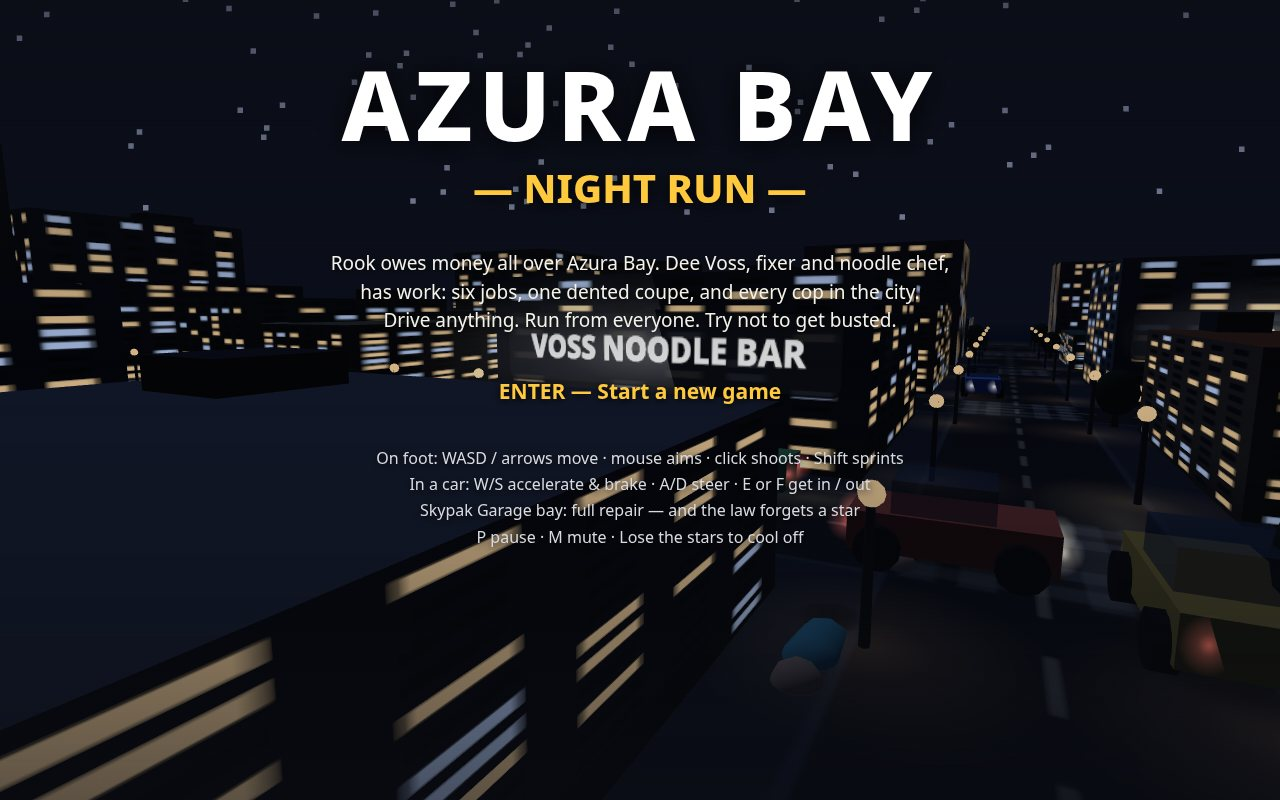
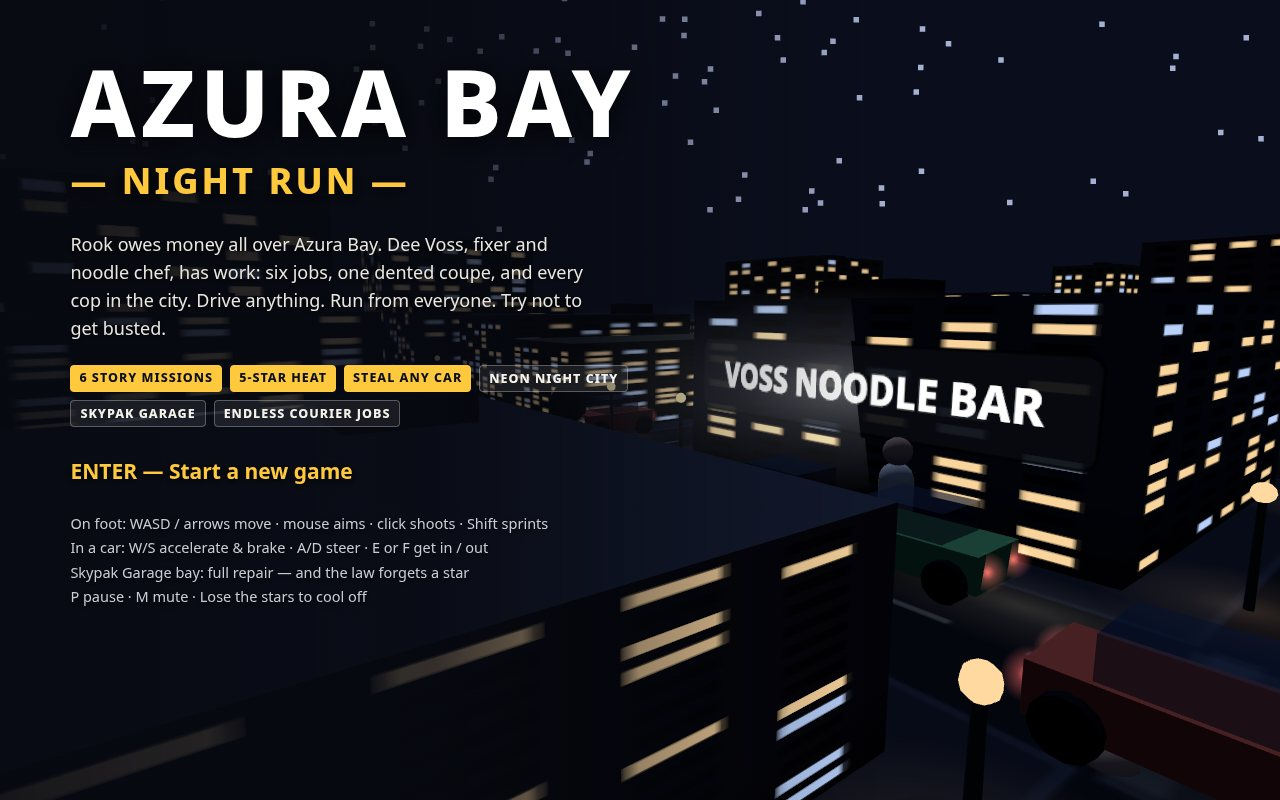
Round 7.1: staged money, cover/drive/chase composition, polish fixes
- shots.js: each scene's cash is the story rewards earned so far plus pocket
  money ($40 / $190 / $1,540), derived from CHAIN so it cannot drift
- cover: left text column on a gradient scrim with a feature strip; camera
  moved to the cross street so the noodle-bar sign reads on the right
- drive: no pedestrian blocking the foreground; chase: bumper cop pulled
  back and camera raised so Rook's coupe is the subject
- Skypak Garage spelled consistently (banner and building sign)
- main.ts header describes this game; root package.json sets type=module

diff --git a/game/index.html b/game/index.html
@@ -58,13 +58,16 @@
   #arrow-dist { position: absolute; left: -20px; top: 12px; width: 40px; text-align: center; font-size: 13px; font-weight: 700; color: #ffc93e; text-shadow: 0 1px 3px rgba(0,0,0,0.9); }
 
   .screen { position: absolute; inset: 0; display: none; flex-direction: column; align-items: center; }
-  #title-screen { background: linear-gradient(180deg, rgba(12,14,20,0.62) 0%, rgba(12,14,20,0.18) 45%, rgba(12,14,20,0.66) 100%); text-align: center; padding-top: 7vh; }
-  #game-title { font-size: 96px; font-weight: 800; letter-spacing: 6px; color: #ffffff; text-shadow: 0 4px 30px rgba(0,0,0,0.9); line-height: 1; }
-  #game-subtitle { font-size: 40px; font-weight: 800; color: #ffc93e; margin-top: 8px; text-shadow: 0 3px 18px rgba(0,0,0,0.9); }
-  #title-story { font-size: 19px; line-height: 1.5; margin-top: 34px; text-shadow: 0 2px 8px rgba(0,0,0,0.95); }
-  #title-start { font-size: 21px; font-weight: 700; color: #ffc93e; margin-top: 42px; text-shadow: 0 2px 8px rgba(0,0,0,0.95); }
+  #title-screen { background: linear-gradient(90deg, rgba(8,10,18,0.94) 0%, rgba(8,10,18,0.82) 34%, rgba(8,10,18,0.25) 56%, rgba(8,10,18,0) 70%); align-items: flex-start; text-align: left; padding: 7vh 0 0 5.5vw; box-sizing: border-box; }
+  #game-title { font-size: 92px; font-weight: 800; letter-spacing: 5px; color: #ffffff; text-shadow: 0 4px 30px rgba(0,0,0,0.9); line-height: 1; }
+  #game-subtitle { font-size: 36px; font-weight: 800; color: #ffc93e; margin-top: 8px; letter-spacing: 3px; text-shadow: 0 3px 18px rgba(0,0,0,0.9); }
+  #title-story { font-size: 18px; line-height: 1.55; margin-top: 26px; max-width: 520px; color: #e8e6de; text-shadow: 0 2px 8px rgba(0,0,0,0.95); }
+  #title-features { display: flex; flex-wrap: wrap; gap: 8px; margin-top: 22px; max-width: 560px; }
+  #title-features span { font-size: 12.5px; font-weight: 800; letter-spacing: 1px; color: #0d1018; background: #ffc93e; border-radius: 4px; padding: 4px 9px; }
+  #title-features span.alt { background: rgba(255,255,255,0.08); color: #f4f2ea; border: 1px solid rgba(255,255,255,0.28); }
+  #title-start { font-size: 21px; font-weight: 700; color: #ffc93e; margin-top: 30px; text-shadow: 0 2px 8px rgba(0,0,0,0.95); }
   #save-line { font-size: 21px; font-weight: 700; margin-top: 10px; display: none; text-shadow: 0 2px 8px rgba(0,0,0,0.95); }
-  #title-controls { font-size: 16px; color: #d7dae0; line-height: 1.65; margin-top: 40px; text-shadow: 0 2px 8px rgba(0,0,0,0.95); }
+  #title-controls { font-size: 14.5px; color: #c9ccd4; line-height: 1.7; margin-top: 26px; text-shadow: 0 2px 8px rgba(0,0,0,0.95); }
   #mute-line { font-size: 16px; color: #ff5d5d; margin-top: 12px; display: none; }
 
   #panel-screen { justify-content: center; background: rgba(10, 12, 16, 0.45); }
@@ -133,9 +136,13 @@
     <div id="game-title">AZURA BAY</div>
     <div id="game-subtitle">— NIGHT RUN —</div>
     <div id="title-story">
-      Rook owes money all over Azura Bay. Dee Voss, fixer and noodle chef,<br>
-      has work: six jobs, one dented coupe, and every cop in the city.<br>
+      Rook owes money all over Azura Bay. Dee Voss, fixer and noodle chef,
+      has work: six jobs, one dented coupe, and every cop in the city.
       Drive anything. Run from everyone. Try not to get busted.
+    </div>
+    <div id="title-features">
+      <span>6 STORY MISSIONS</span><span>5-STAR HEAT</span><span>STEAL ANY CAR</span>
+      <span class="alt">NEON NIGHT CITY</span><span class="alt">SKYPAK GARAGE</span><span class="alt">ENDLESS COURIER JOBS</span>
     </div>
     <div id="title-start">ENTER — Start a new game</div>
     <div id="save-line"></div>

diff --git a/game/src/shots.js b/game/src/shots.js
@@ -9,11 +9,18 @@
 import { STEP, TRAFFIC } from './config.js';
 import { streetCenterY } from './city.js';
 import { heatForStars } from './wanted.js';
-import { updateMissions } from './missions.js';
+import { CHAIN, updateMissions } from './missions.js';
 import { SCREEN_PLAY, SCREEN_TITLE } from './screens.js';
 
 const IDLE = { moveX: 0, moveY: 0, aimX: null, aimY: null, firing: false, sprint: false, enter: false };
 const DRIVING = { moveX: 0, moveY: -1, aimX: null, aimY: null, firing: false, sprint: false, enter: false };
+
+/** Cash on hand in a staged scene: every story reward paid out before `chainIndex`,
+ *  plus Rook's pocket money, so the HUD shows what a real run would have earned. */
+const POCKET = 40;
+function earnedBefore(chainIndex) {
+  return POCKET + CHAIN.slice(0, chainIndex).reduce((sum, mission) => sum + mission.reward, 0);
+}
 
 function stepFor(world, seconds, ctrl) {
   const steps = Math.round(seconds / STEP);
@@ -69,8 +76,8 @@ function stageStart(world, city) {
     screen: SCREEN_TITLE,
     camera: {
       mode: 'fixed',
-      x: noodle.x + 128, y: noodle.y + 238, height: 64,
-      lookX: noodle.x - 8, lookY: noodle.y - 14, lookHeight: 24,
+      x: noodle.x + 144, y: noodle.y + 190, height: 74,
+      lookX: noodle.x - 150, lookY: noodle.y - 30, lookHeight: 24,
     },
   };
 }
@@ -96,7 +103,6 @@ function stageDrive(world, missions, city) {
   placePeds(world, [
     [1050, noodle.y - 7],
     [1230, noodle.y + 95],
-    [860, noodle.y - 7],
   ], 5);
   world.putPlayerInCar(coupe);
   updateMissions(missions, world, city); // the enterCoupe step completes, as in play
@@ -104,6 +110,12 @@ function stageDrive(world, missions, city) {
   // A wandering pedestrian can step into the road during the staged roll and
   // leave the frame at two stars; the composed shot is a clean errand run.
   world.setHeat(0);
+  // Anyone strolling between the chase camera and the coupe would fill the
+  // foreground; send them up the street, where they read as city life instead.
+  for (const ped of world.state.peds) {
+    if (ped.x > coupe.x - 260 && ped.x < coupe.x + 10 && Math.abs(ped.y - laneY) < 140) ped.x += 640;
+  }
+  world.state.money = earnedBefore(0);
   return { screen: SCREEN_PLAY, camera: null };
 }
 
@@ -129,7 +141,7 @@ function stageChase(world, missions) {
   world.addPoliceAt(948, laneY - 50, 0.05, 306); // left flank
   world.addPoliceAt(952, laneY + 50, -0.05, 303); // right flank
   world.addPoliceAt(1158, laneY - 8, 0.3, 290); // cutting in ahead
-  world.addPoliceAt(892, laneY + 14, -0.03, 324); // on the bumper
+  world.addPoliceAt(860, laneY + 14, -0.03, 318); // on the bumper, a length back
   // Civilian traffic fleeing ahead and coming the other way; neighbours watching.
   const traffic = world.state.cars.filter((car) => car.kind === 'traffic');
   stageTraffic(traffic[0], 1420, laneY, 1, 265, 5, 6);
@@ -142,9 +154,10 @@ function stageChase(world, missions) {
   stepFor(world, 0.22, DRIVING);
   // Contact during the staged chase bumps the heat; pin the frame at exactly three stars.
   world.setHeat(heatForStars(3));
+  world.state.money = earnedBefore(1);
   return {
     screen: SCREEN_PLAY,
-    camera: { dist: 160, height: 72, lookAhead: 40 },
+    camera: { dist: 160, height: 90, lookAhead: 40 },
   };
 }
 
@@ -195,6 +208,7 @@ function stageMission(world, missions, city) {
     world.step(STEP, { ...DRIVING, moveY });
   }
   missions.tail.meter = 0.65; // the meter where a good shadow keeps it
+  world.state.money = earnedBefore(4);
   return {
     screen: SCREEN_PLAY,
     camera: { dist: 148, height: 70, lookAhead: 130 },

diff --git a/main.ts b/main.ts
@@ -1,12 +1,10 @@
-// A working gta6-01 entry (Node 22, standard library only): the game is this directory's
-// game/ folder, plain static files a desktop browser loads offline (game/index.html and its ES
-// modules, no library and no network request), and the program hands it in. It copies game/ and
-// screenshots/ from beside this file to /output and writes /output/dossier.json, the summary the
-// judge reads, with the vendored make.fun library. Only the plumbing, not an open world: Block
-// Dodger, a plain 2D canvas game where a paddle dodges falling blocks and catches coins, with a
-// title screen, score, lives and levels, game over and restart, flat colours and no sound. Build
-// your own open-world crime game in its place (three.js or any library you vendor under game/),
-// put your 3 or 4 PNG or JPEG screenshots in screenshots/ (the first by name is the cover) and run it.
+// Azura Bay: Night Run — the gta6-01 hand-in (Node 22, standard library only). The game is
+// this directory's game/ folder: a 3D open-world night-city crime game, plain static files a
+// desktop browser loads offline (game/index.html, its ES modules and the vendored three.js; no
+// network request). This program copies game/ and screenshots/ from beside this file to /output,
+// writes /output/dossier.json (the summary the judge reads) with the vendored make.fun library,
+// then re-reads the output and checks it against the scorer's caps. The four screenshots are
+// staged scenes of the real game (game/src/shots.js); the first by name is the cover.
 //
 // Serve it locally with `node serve.ts`, then open http://localhost:8080.
 // Outside the grader's container, MAKEFUN_OUTPUT_DIR stands in for /output:

diff --git a/game/src/city.js b/game/src/city.js
@@ -14,7 +14,7 @@ const SPECIALS = [
   { key: 'noodle', name: 'VOSS NOODLE BAR', col: 3, row: 3, roof: '#d94f3d' },
   { key: 'safehouse', name: "ROOK'S PLACE", col: 3, row: 4, roof: '#7d8ca3' },
   { key: 'cannery', name: 'OLD CANNERY', col: 6, row: 1, roof: '#8a6f4d' },
-  { key: 'garage', name: 'SKYPARK GARAGE', col: 1, row: 6, roof: '#5f8a8b' },
+  { key: 'garage', name: 'SKYPAK GARAGE', col: 1, row: 6, roof: '#5f8a8b' },
   { key: 'marina', name: 'MARINA STORES', col: 7, row: 3, roof: '#4a7fa5' },
   { key: 'bank', name: 'AZURA BANK', col: 4, row: 2, roof: '#c2a15c' },
   { key: 'hotel', name: 'HOTEL LUMIERE', col: 2, row: 5, roof: '#8a6f9e' },

diff --git a/game/src/main.js b/game/src/main.js
@@ -289,7 +289,7 @@ function runGame() {
         const res = world.tryGarageService();
         if (res.ok) {
           enterPressed = false;
-          showBanner('SKYPARK GARAGE', res.shedStar
+          showBanner('SKYPAK GARAGE', res.shedStar
             ? `Repaired, resprayed, one star forgotten — -$${res.fee}`
             : `Repaired and resprayed — -$${res.fee}`);
           audio.success();
